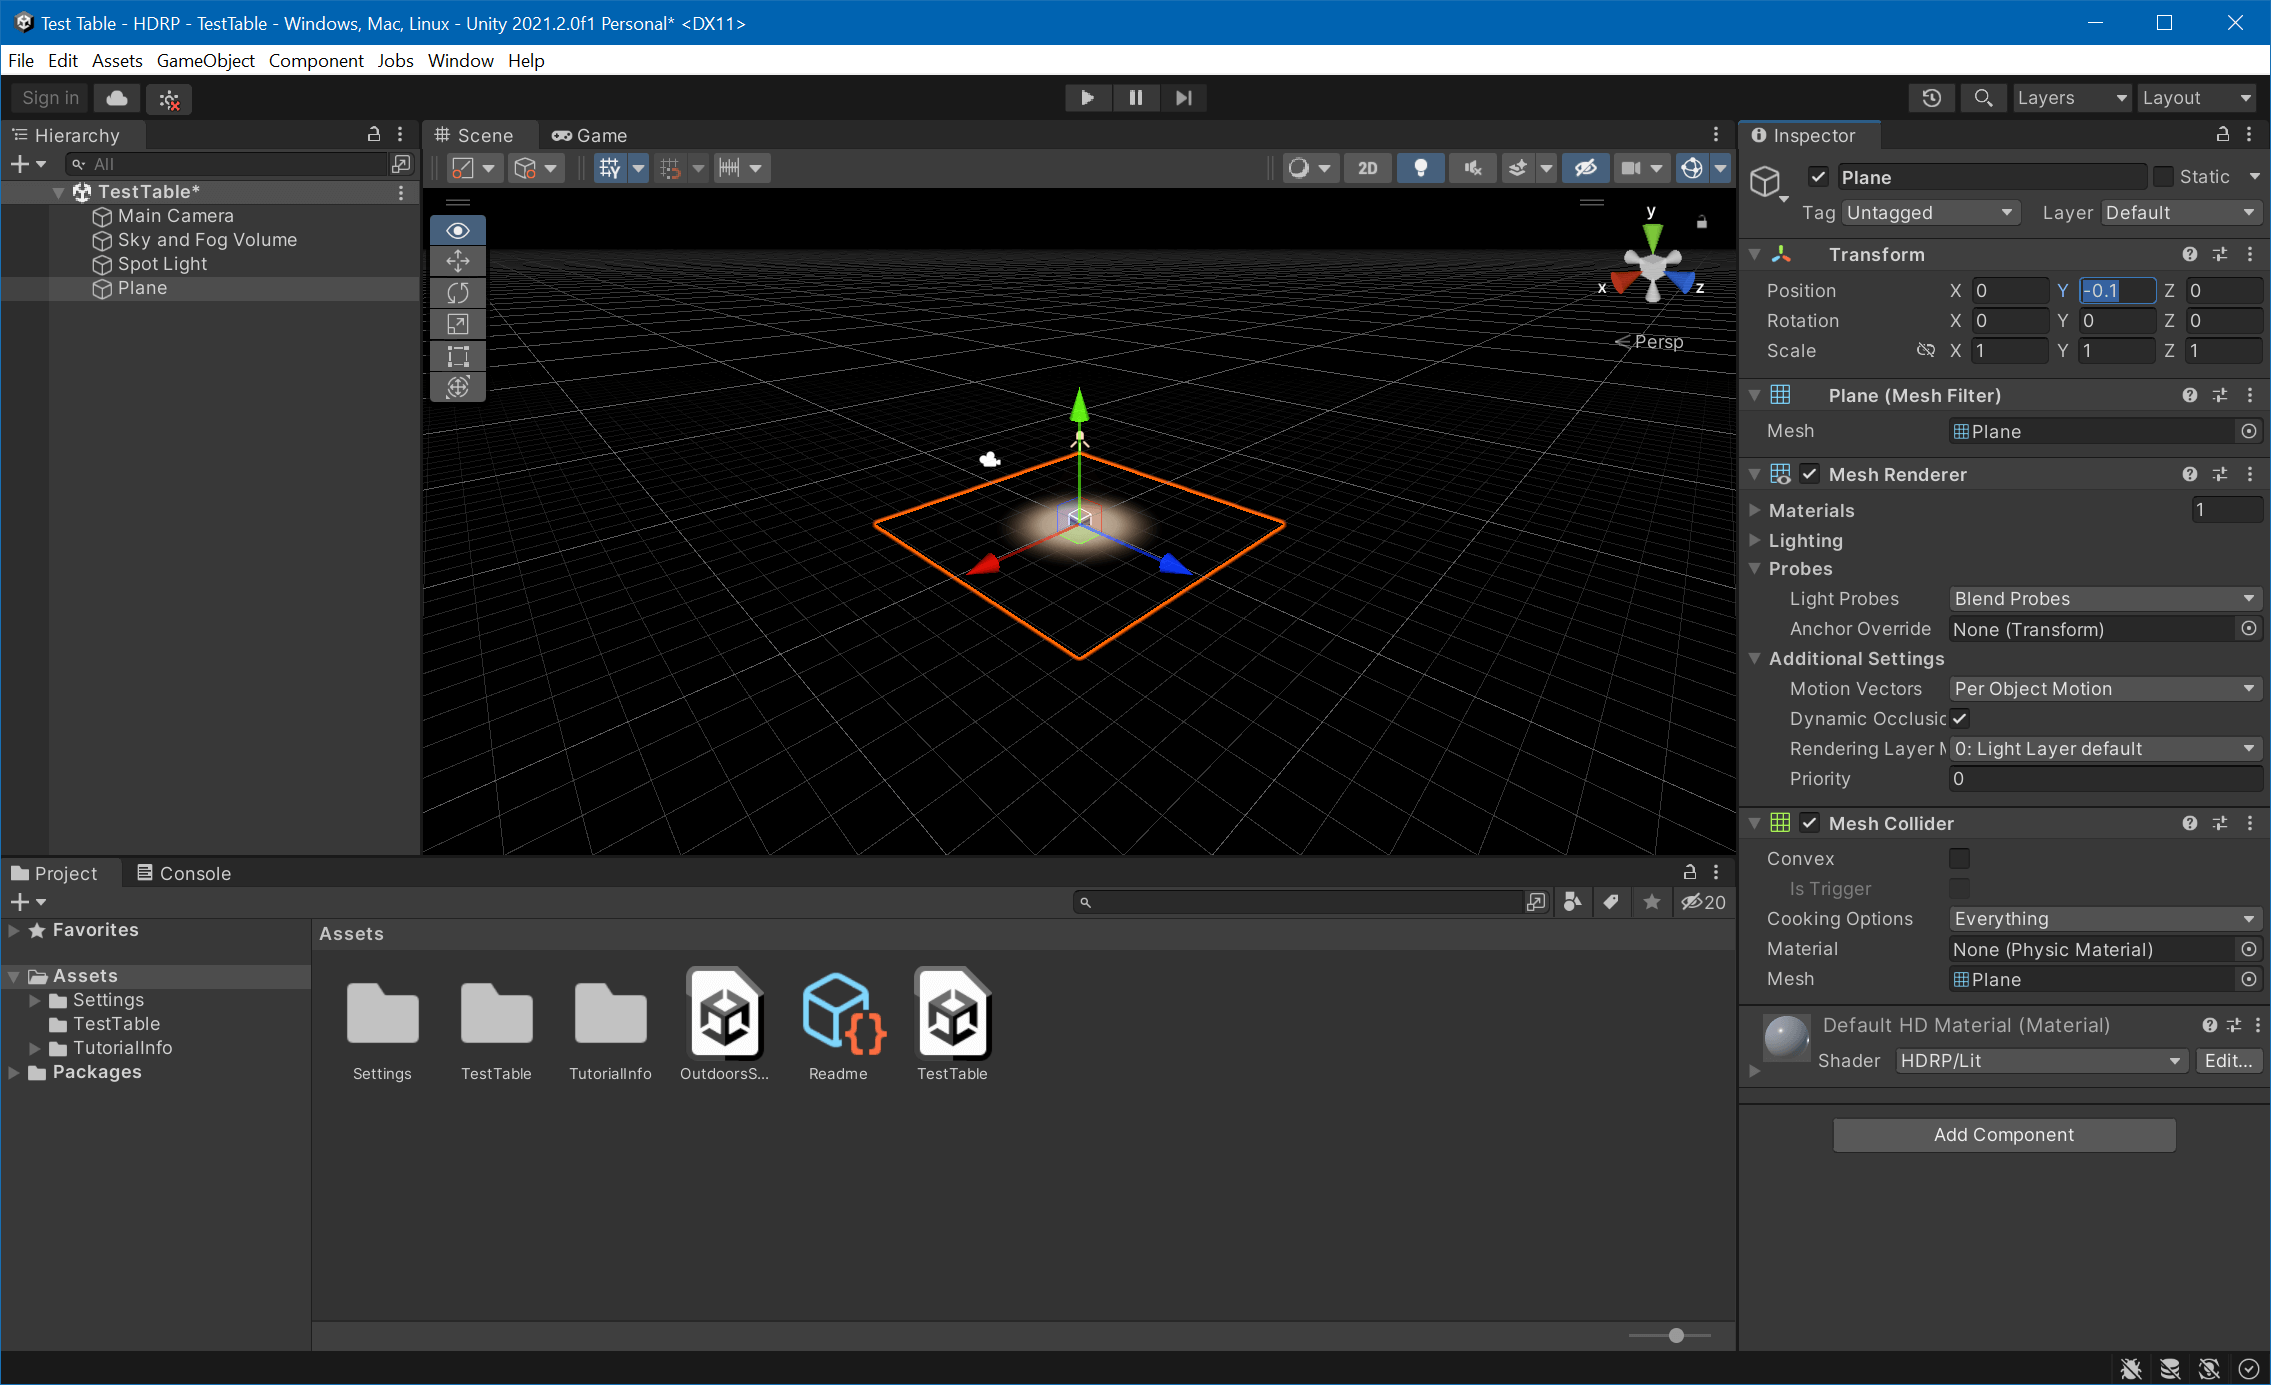
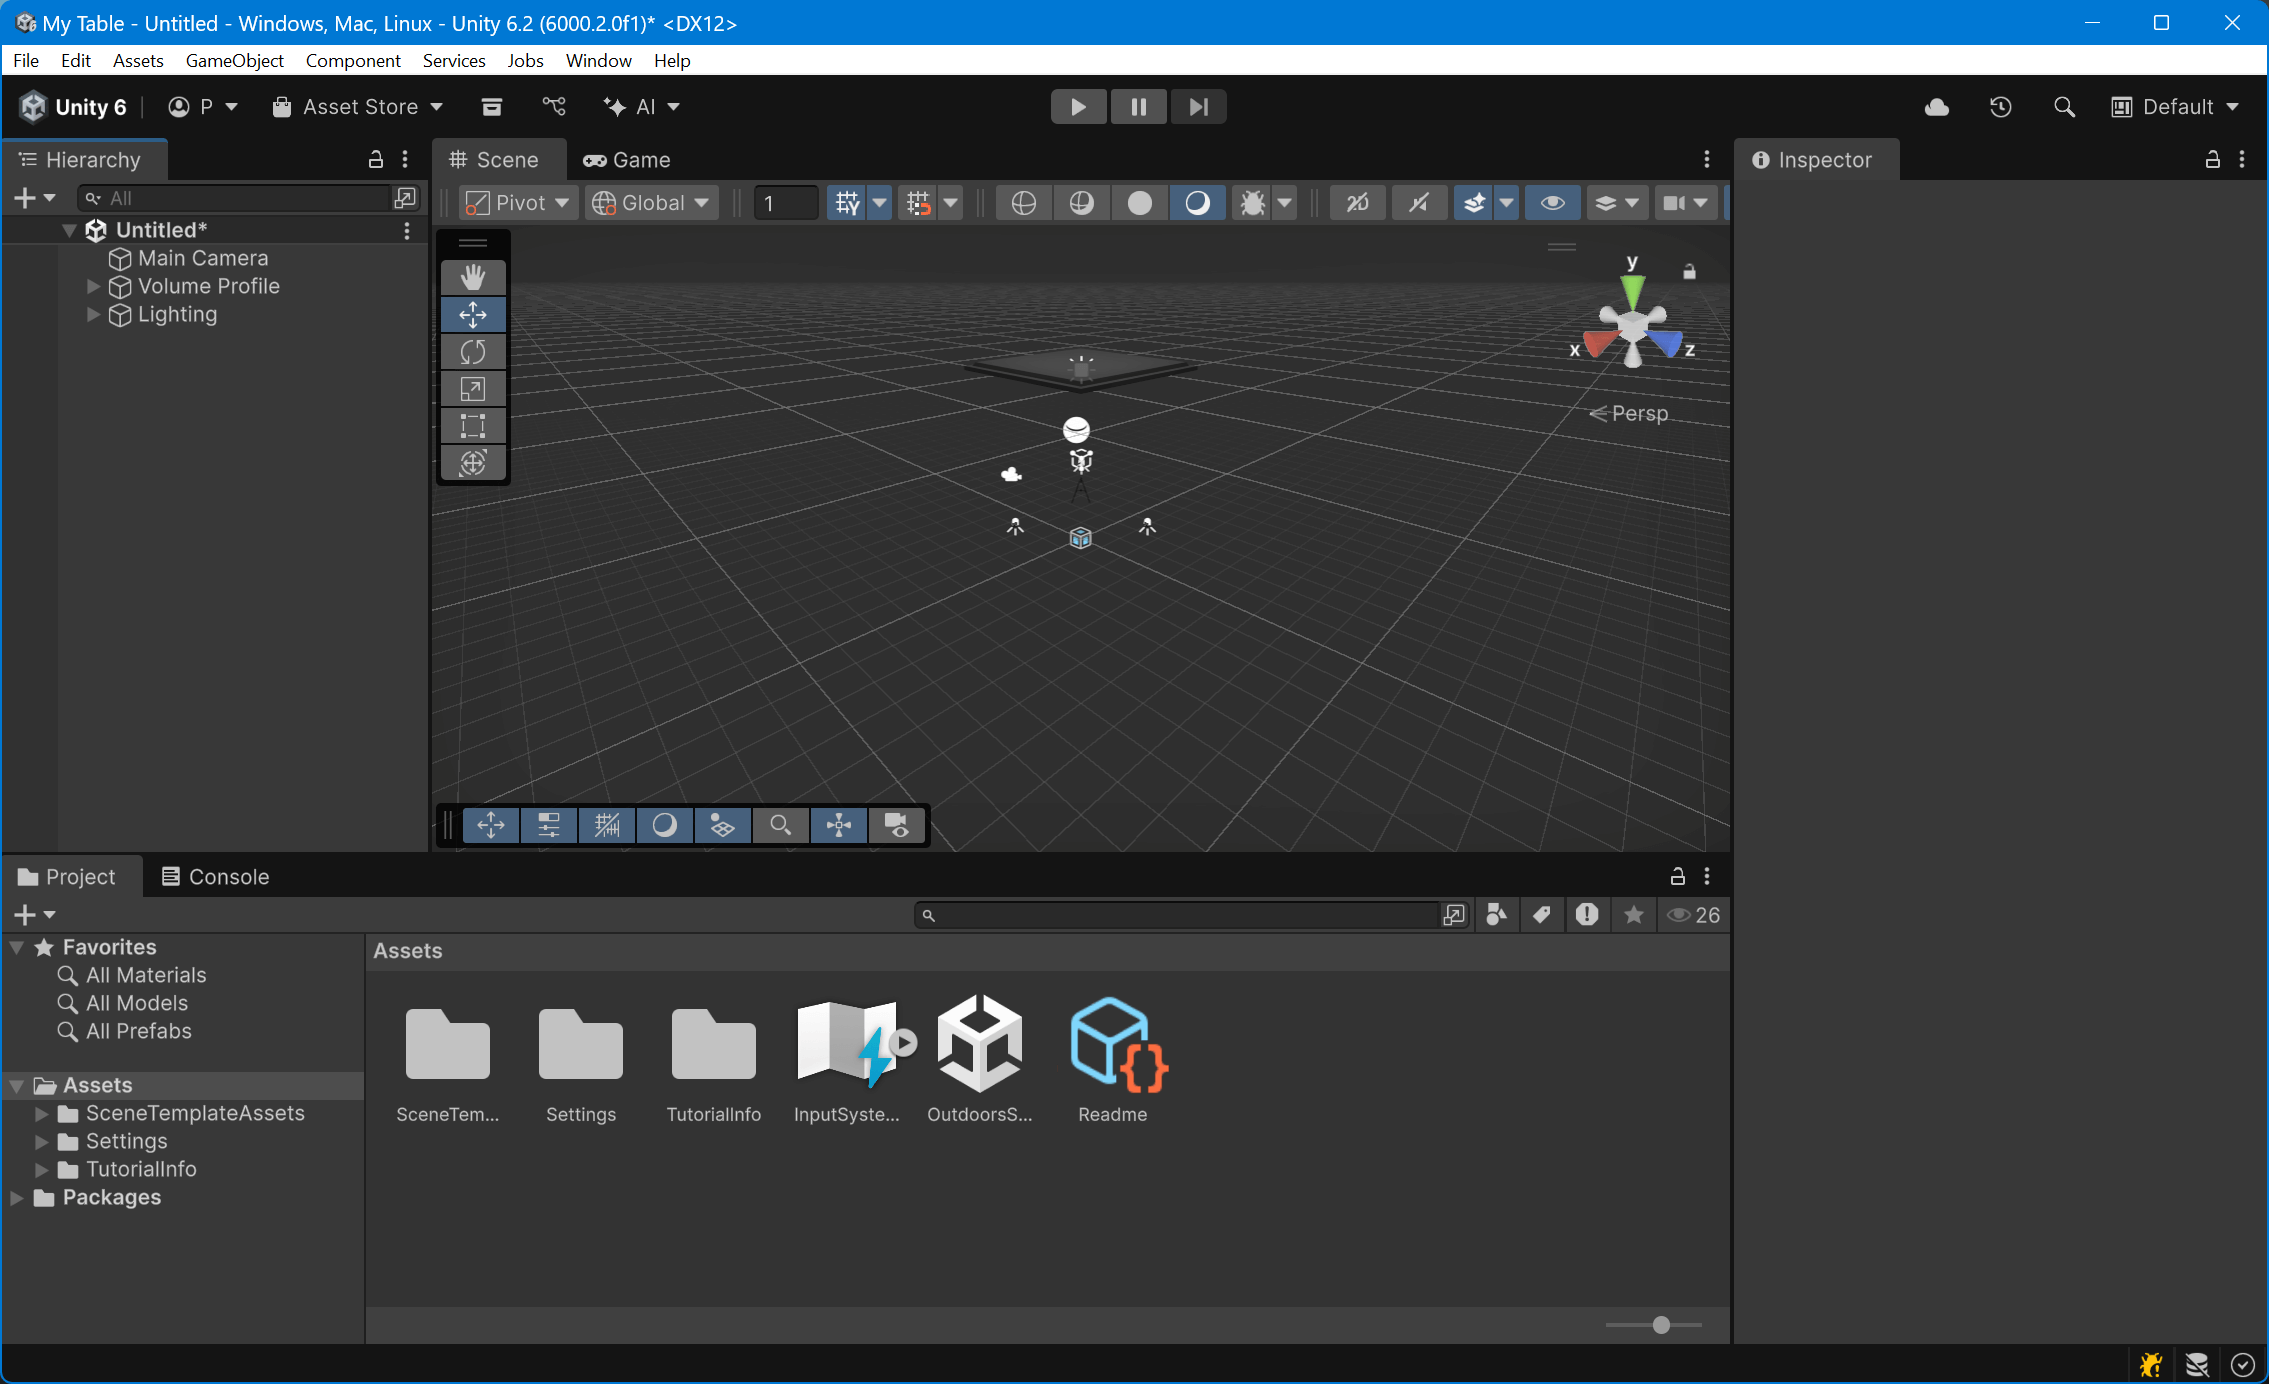
doc: Update "Installing VPE".

diff --git a/VisualPinball.Unity/Documentation~/creators-guide/setup/installing-vpe.md b/VisualPinball.Unity/Documentation~/creators-guide/setup/installing-vpe.md
@@ -9,29 +9,26 @@ description: How to install VPE
 In order to start creating or modifying tables with VPE, the first thing you'll need to do is install [Unity](https://unity3d.com/get-unity/download). You will need a Unity developer account, which is free.
 
 > [!NOTE]
-> As long as you don't use Unity for a game that makes $100K or more in revenue or funding a year, the free [Personal](https://store.unity.com/compare-plans) plan is sufficient for you.
+> As long as you don't use Unity for a game that makes $200K or more in revenue or funding a year, the free [Personal](https://store.unity.com/compare-plans) plan is sufficient for you.
 
 Unity uses an application called *Unity Hub* to update itself, create new projects and provide quick access to them. The install process is straight-forward and documented [here](https://docs.unity3d.com/Manual/GettingStartedInstallingHub.html) if you run into troubles.
 
-**Unity 6.0** is the recommended Unity version at the moment.
+**Unity 6.2** is the recommended Unity version at the moment.
 
 You can leave all the other options unchecked during install.
 
-Once Unity is downloaded and installed, you're ready to create a new VPE project. Click on *New Project*, be sure to have selected the 6.0 version at the top, and you'll see the following choices:
+Once Unity is downloaded and installed, you're ready to create a new VPE project. Click on *New Project*, be sure to have selected the 6.2 version at the top, and you'll see the following choices:
 
 ![New Unity Project](unity-create-new-project.png)
 
 The relevant options for VPE are:
 
-- **3D** - Unity's original built-in renderer.
-- **3D (URP)** - Unity's [Universal Render Pipeline](https://docs.unity3d.com/Packages/com.unity.render-pipelines.universal@8.2/manual/index.html) is aimed at mobile and low-end platforms.
-- **3D (HDRP)** - Unity's [High Definition Render Pipeline](https://docs.unity3d.com/Packages/com.unity.render-pipelines.high-definition@12.0/manual/index.html) used for high-end platforms.
+- **Universal 3D** - Unity's [URP](https://docs.unity3d.com/Packages/com.unity.render-pipelines.universal@8.2/manual/index.html) is aimed at mobile and low-end platforms.
+- **High Definition 3D** - Unity's [HDRP](https://docs.unity3d.com/Packages/com.unity.render-pipelines.high-definition@12.0/manual/index.html) used for high-end platforms.
 
 We recommend using HDRP. It's what we're using when developing and should be the most stable pipeline. Alternatively if you're on a laptop don't have a beefy GPU, use the URP. The built-in renderer is legacy not recommended.
 
-Next, enter a project name and a location for your project. We recommend putting the render pipeline into the name, because in the future you might want to test out other pipelines in their own projects.
-
-Clicking *Create project* launches the Unity editor, pulls in all the dependencies for the new project, and compiles them. This will take a few minutes.
+Next, enter a project name and a location for your project. Clicking *Create project* launches the Unity editor, pulls in all the dependencies for the new project, and compiles them. This will take a few minutes.
 
 ### HDRP Setup
 
@@ -39,11 +36,11 @@ Once the editor has opened you can click away the HDRP Wizard that opens. You sh
 
 ![HDRP Empty Scene](unity-hdrp-empty-scene.png)
 
-Click on *File -> New Scene* and select the *Basic Indoors (HDRP)* template. Save it in your *Assets/Scenes* folder as `TestTable.unity`.
+Click on *File -> New Scene* and select the *Basic Indoors (HDRP)* template. Save it in your *Assets/Scenes* folder as `MyTable.unity`.
 
-In this base scene there's a *Plane* that will [Z-fight](https://en.wikipedia.org/wiki/Z-fighting) with our imported table later. Select it in the [Hierarchy](https://docs.unity3d.com/Manual/Hierarchy.html) and move it down a little by setting the *Y Position* under *Transform* in the [Inspector](https://docs.unity3d.com/Manual/UsingTheInspector.html) to `-0.1`. Your scene should now look like this:
+In this scene, there are already some objects we don't need. In the [Hierarchy](https://docs.unity3d.com/Manual/Hierarchy.html), select the *Geometry* game object and delete it by pressing `DEL`. Your scene should now look like this:
 
-![TestTable Scene](unity-hdrp-test-scene.png)
+![MyTable Scene](unity-hdrp-test-scene.png)
 
 Hit *Ctrl+S* to save your scene.
 
@@ -64,20 +61,16 @@ Also check *Enable Pre-release Packages* (and confirm), as well as *Show depende
 
 Hit *Save* and close the window. Now you'll add VPE's HDRP package, which will automatically pull in the core package and the assets package.
 
-Open the package manager by clicking on *Window -> Package Manager*. Then click on the "plus" icon on the top left corner of the window, and choose *Add package by name..*.
+Open the package manager by clicking on *Window -> Package Management -> Package Manager*. Then click on the "plus" icon on the top left corner of the window, and choose *Add package by name..*.
 
 <p><img alt="Package Manager" width="237" src="unity-package-manager.png"/></p>
 
-There, enter `org.visualpinball.engine.unity.hdrp` and click *Add*. This will take a moment as Unity downloads and compiles all of VPE's dependencies and parses all the assets that we ship in our library. If during this time, you see the following warning about the input system:
-
-<p><img alt="Unity Input System Warning" width="390" src="unity-input-system-warning.png" /></p>
-
-Click *Yes*.
+There, enter `org.visualpinball.engine.unity.hdrp` and click *Install*. This will take a moment as Unity downloads and compiles all of VPE's dependencies and parses all the assets that we ship in our library. 
 
 > [!WARNING]
 > Our patcher, which is currently part of the main package, depends on the PinMAME package. Until we move the patcher into a separate package, you will have to install the PinMAME package as well. To do that, click on the plus button again and enter `org.visualpinball.engine.pinmame`, then click on *Add*.
 
-When complete, you should now have a *Visual Pinball* menu in the editor, and you should see the following new packages in the package manager (version numbers will vary):
+When complete, you should now have a *Pinball* menu in the editor, and you should see the following new packages in the package manager (version numbers will vary):
 
 <p><img alt="Unity Input System Warning" width="907" src="unity-packages-after-installation.png" /></p>
 
